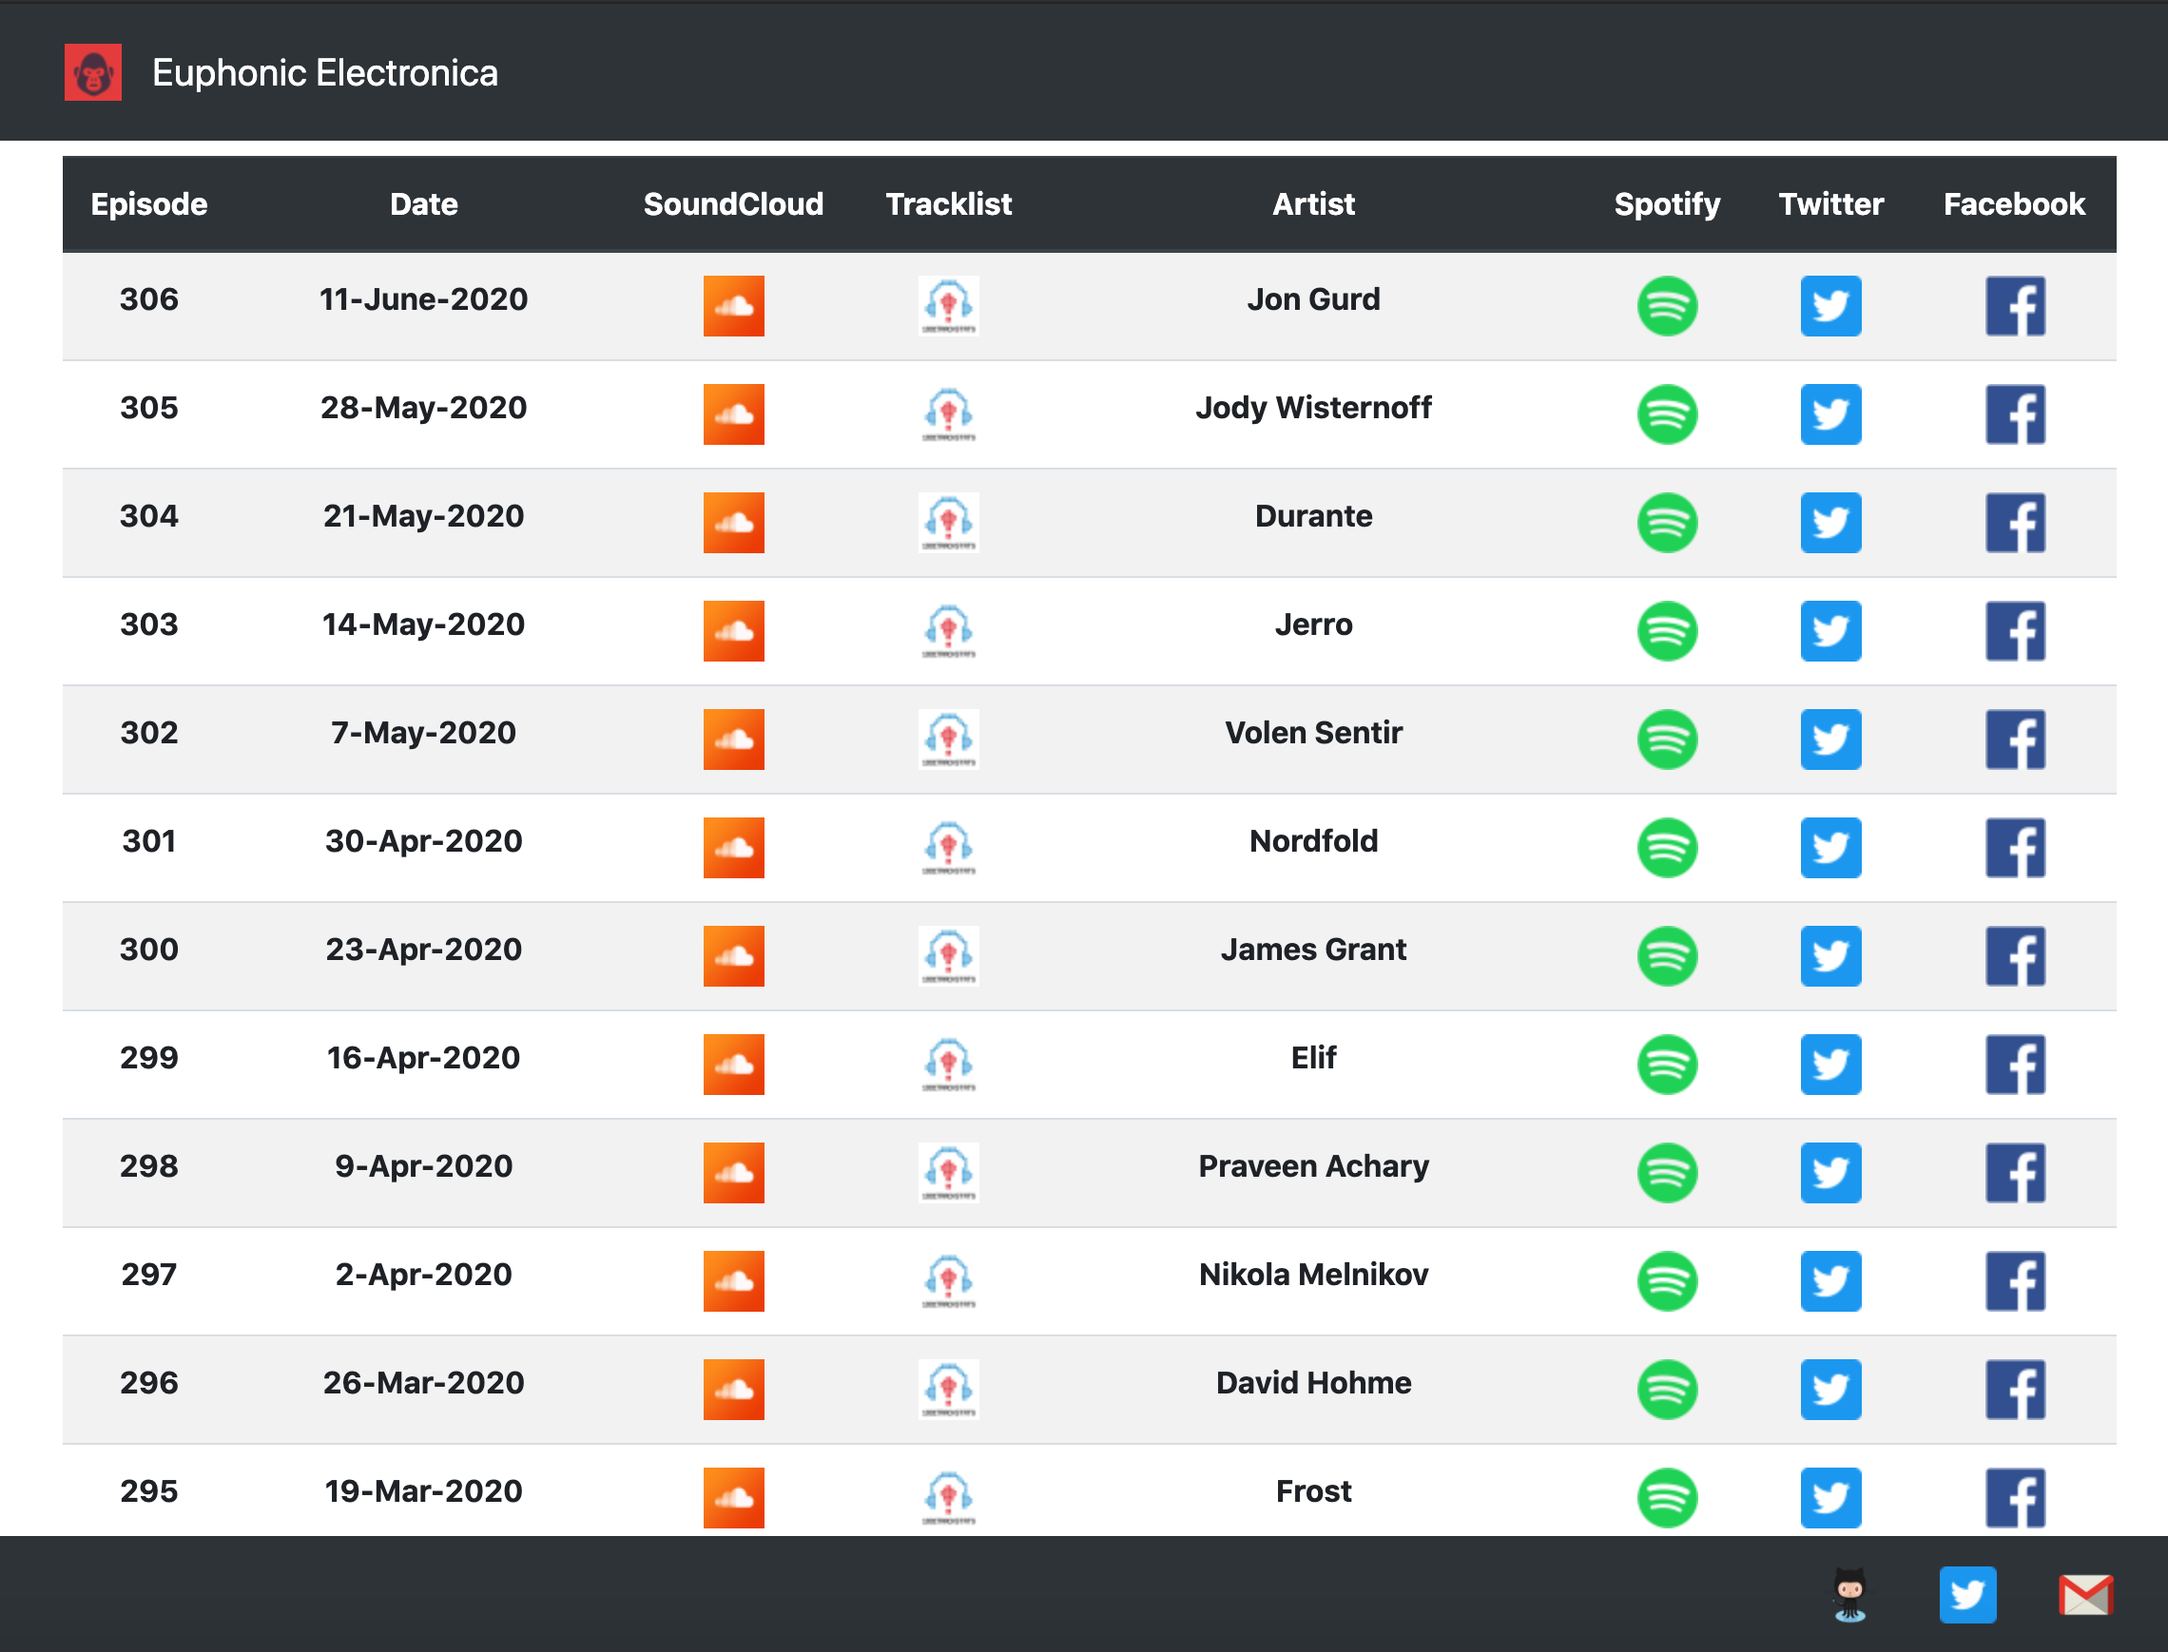
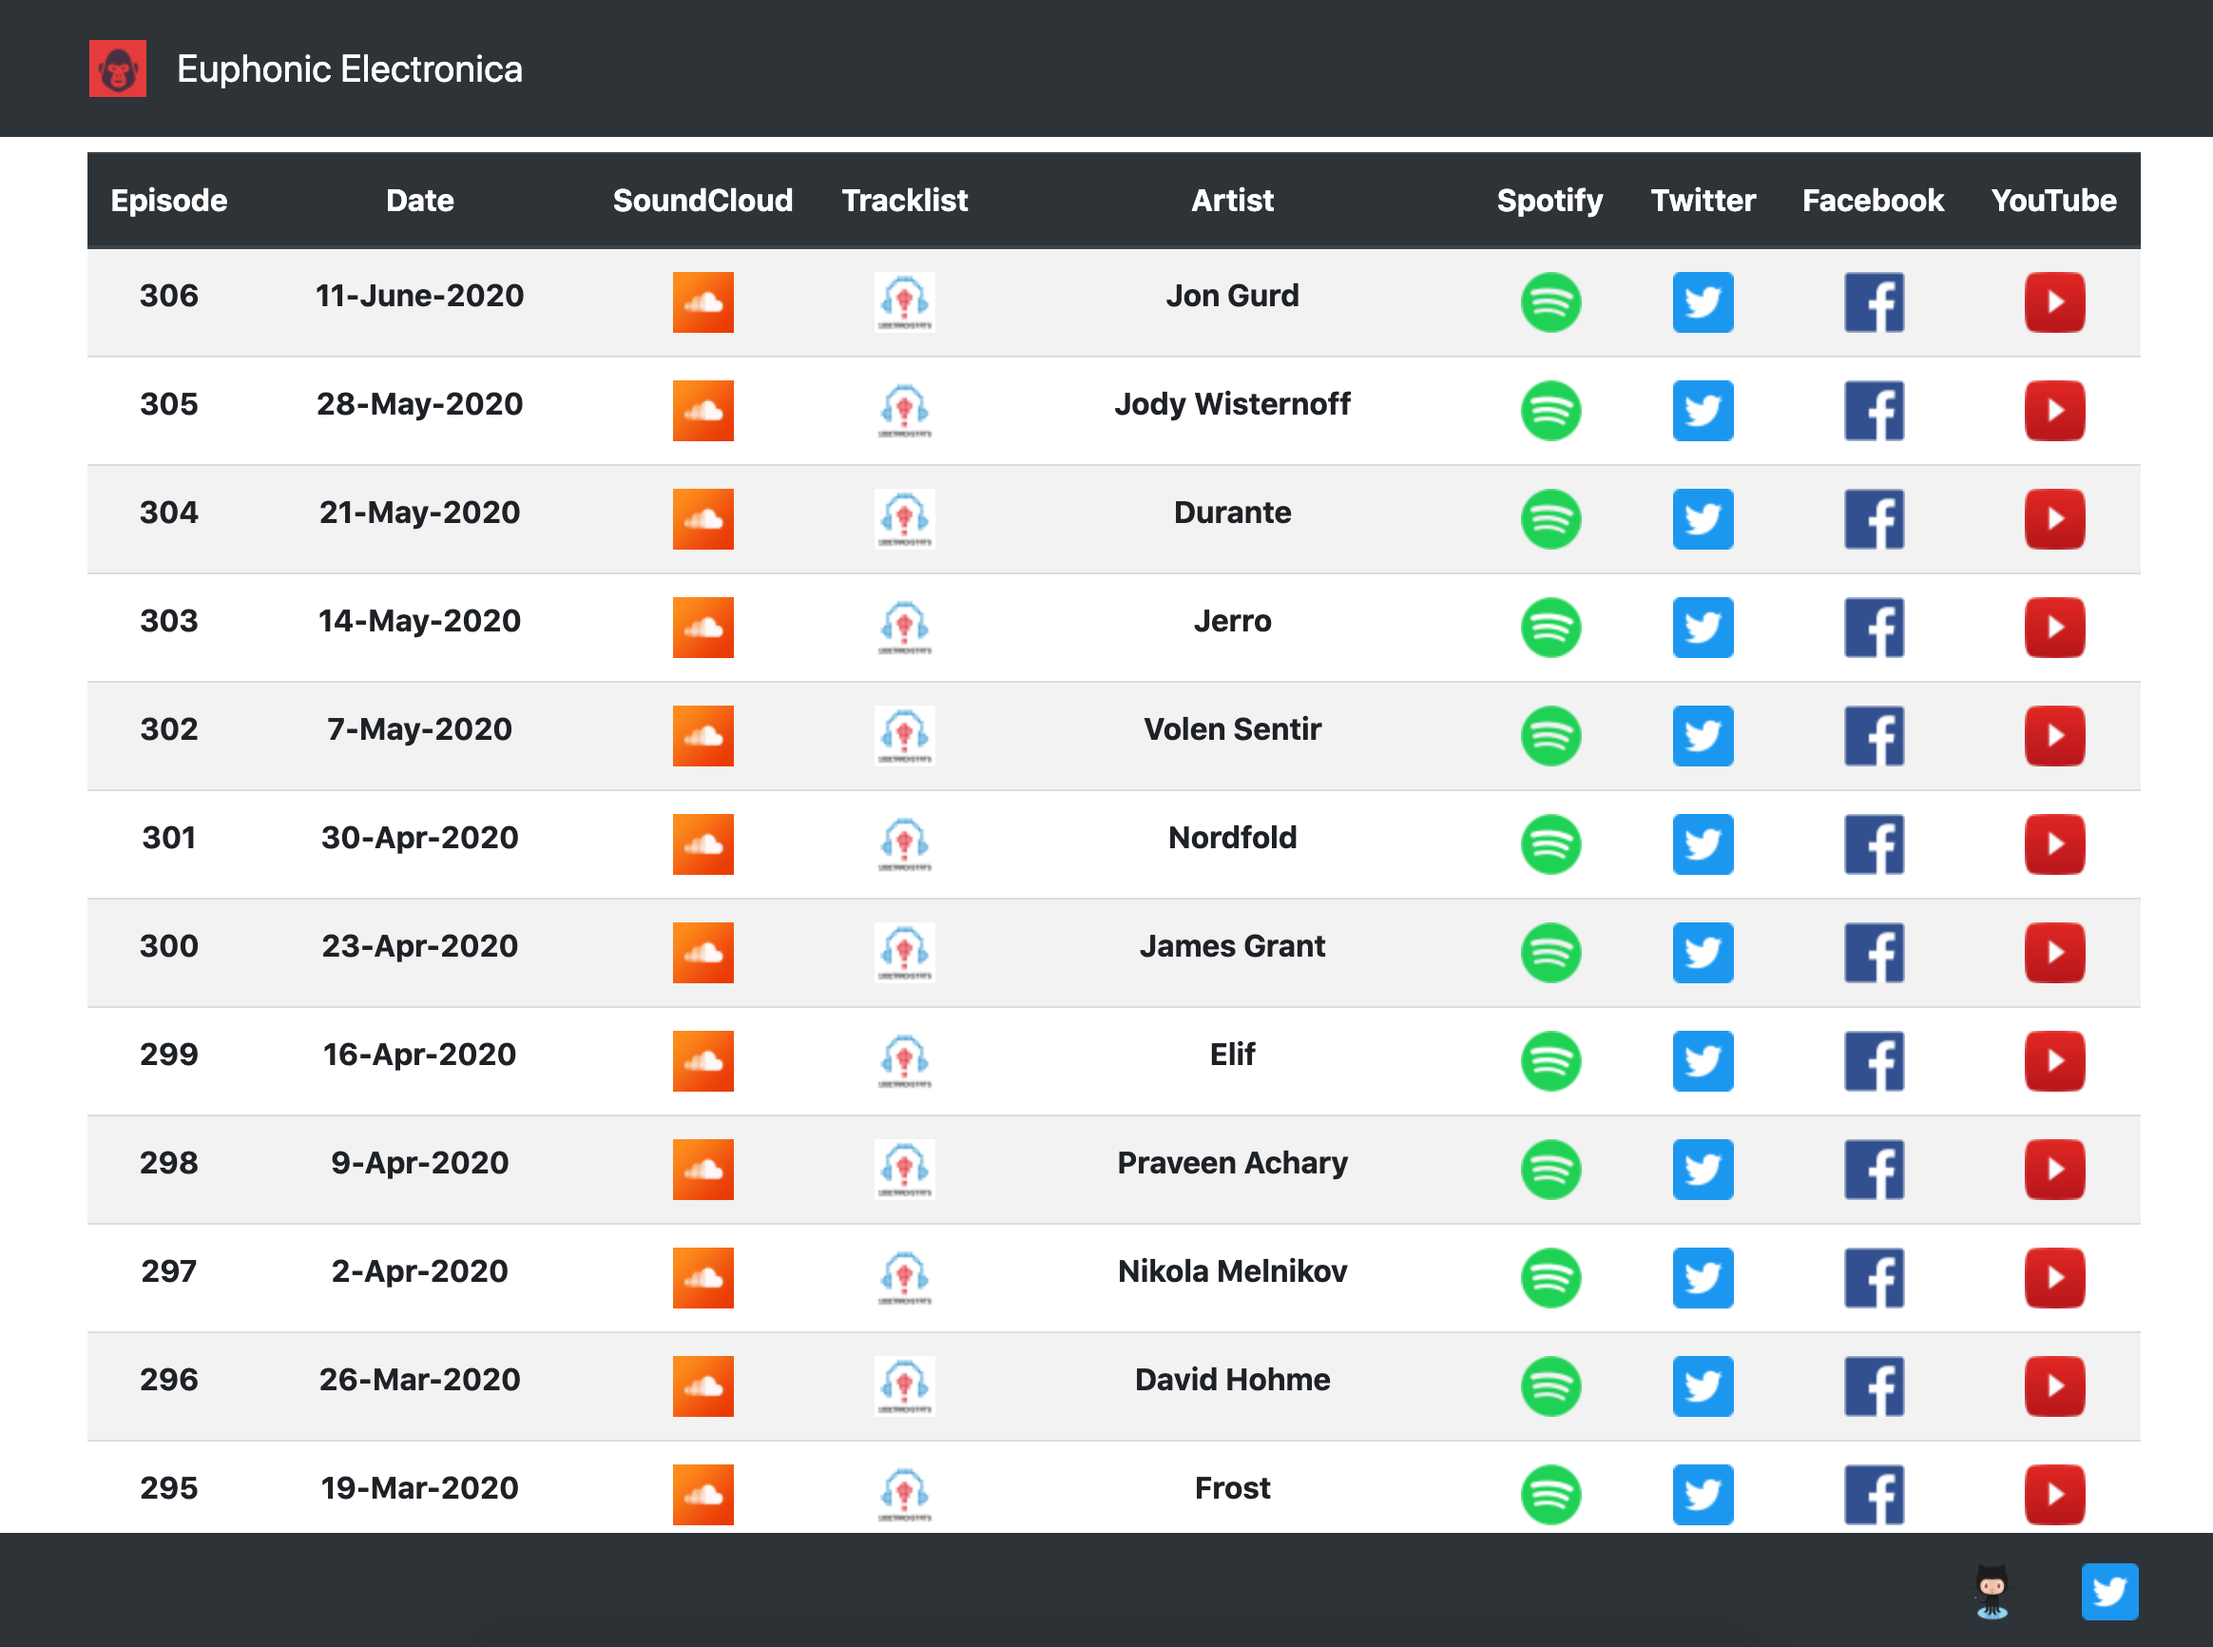
Added support for viewing youtube profiles

diff --git a/client/src/components/EntryDetails.js b/client/src/components/EntryDetails.js
@@ -24,6 +24,9 @@ const Entry = props => (
             <td>
                 <ReactGA.OutboundLink eventLabel="Accessed Facebook" to={props.entry.artistfacebook} target="_blank"><img src={process.env.PUBLIC_URL + "/images/Facebook.png"} /></ReactGA.OutboundLink>
             </td>
+            <td>
+                <ReactGA.OutboundLink eventLabel="Accessed YouTube" to={"https://www.youtube.com/results?search_query=" + props.entry.artistname} target="_blank"><img src={process.env.PUBLIC_URL + "/images/YouTube.png"} /></ReactGA.OutboundLink>
+            </td>
         </tr>
 )
 
@@ -72,6 +75,7 @@ export default class EntryDetails extends Component {
                                     <th>Spotify</th>
                                     <th>Twitter</th>
                                     <th>Facebook</th>
+                                    <th>YouTube</th>
                                 </tr>
                             </thead>
                             <tbody>

diff --git a/README.md b/README.md
@@ -1,6 +1,6 @@
 # Euphonic-Electronica
 
-![Brand Banner](/readMeImages/EE-Header.png)
+![Brand Banner](/readMeImages/EuphonicElectronicaHeader.png)
 
 ## Overview
 
@@ -12,9 +12,9 @@ First step for me after the episode was broadcasted was to check if the episode 
 
 Next, whenever I was listening the episode on SoundCloud, I used to try to find out the names of the tracks. I tried using Shazam numerous times but majority of times, it was of no use. Then came the 1001Tracklists. Since then, finding the ID of the song was just a cake. Thanks to the community.
 
-Over the period of time, I had developed another hobby where in if the artist is relatively new to the <a href="https://anjunadeep.com/" target="_blank">Anjunadeep</a> label, then I used to look out for the artist on Spotify, Twitter & Facebook. Look out for the hit tracks, any festival performance etc and then try to find the new tracks of the artists as well.
+Over the period of time, I had developed another hobby where in if the artist is relatively new to the <a href="https://anjunadeep.com/" target="_blank">Anjunadeep</a> label, then I used to look out for the artist on Spotify, Facebook, Twitter, YouTube. Look out for the hit tracks, any festival performance etc and then try to find the new tracks of the artists as well.
 
-I have created this application as a one stop solution to all the aboves challenges. This is a standalone application where in for every Anjunadeep episode, a SoundCloud link, the tracklist list on 1001Tracklist and then the Spotify, Facebook, Twitter profiles of the artist are coalated.
+I have created this application as a one stop solution to all the aboves challenges. This is a standalone application where in for every Anjunadeep episode, a SoundCloud link, the tracklist list on 1001Tracklist and then the Spotify, Facebook, Twitter, YouTube profiles of the artist are coalated.
 
 ## Deployment 
 
@@ -50,6 +50,7 @@ Logos & Icons are the property of the respective companies -
 5. [SoundCloud](https://soundcloud.com/)
 6. [Spotify](https://www.spotify.com/)
 7. [Twitter](https://twitter.com/)
+8. [YouTube](https://youtube.com/)
 
 ## Code of Conduct
 
